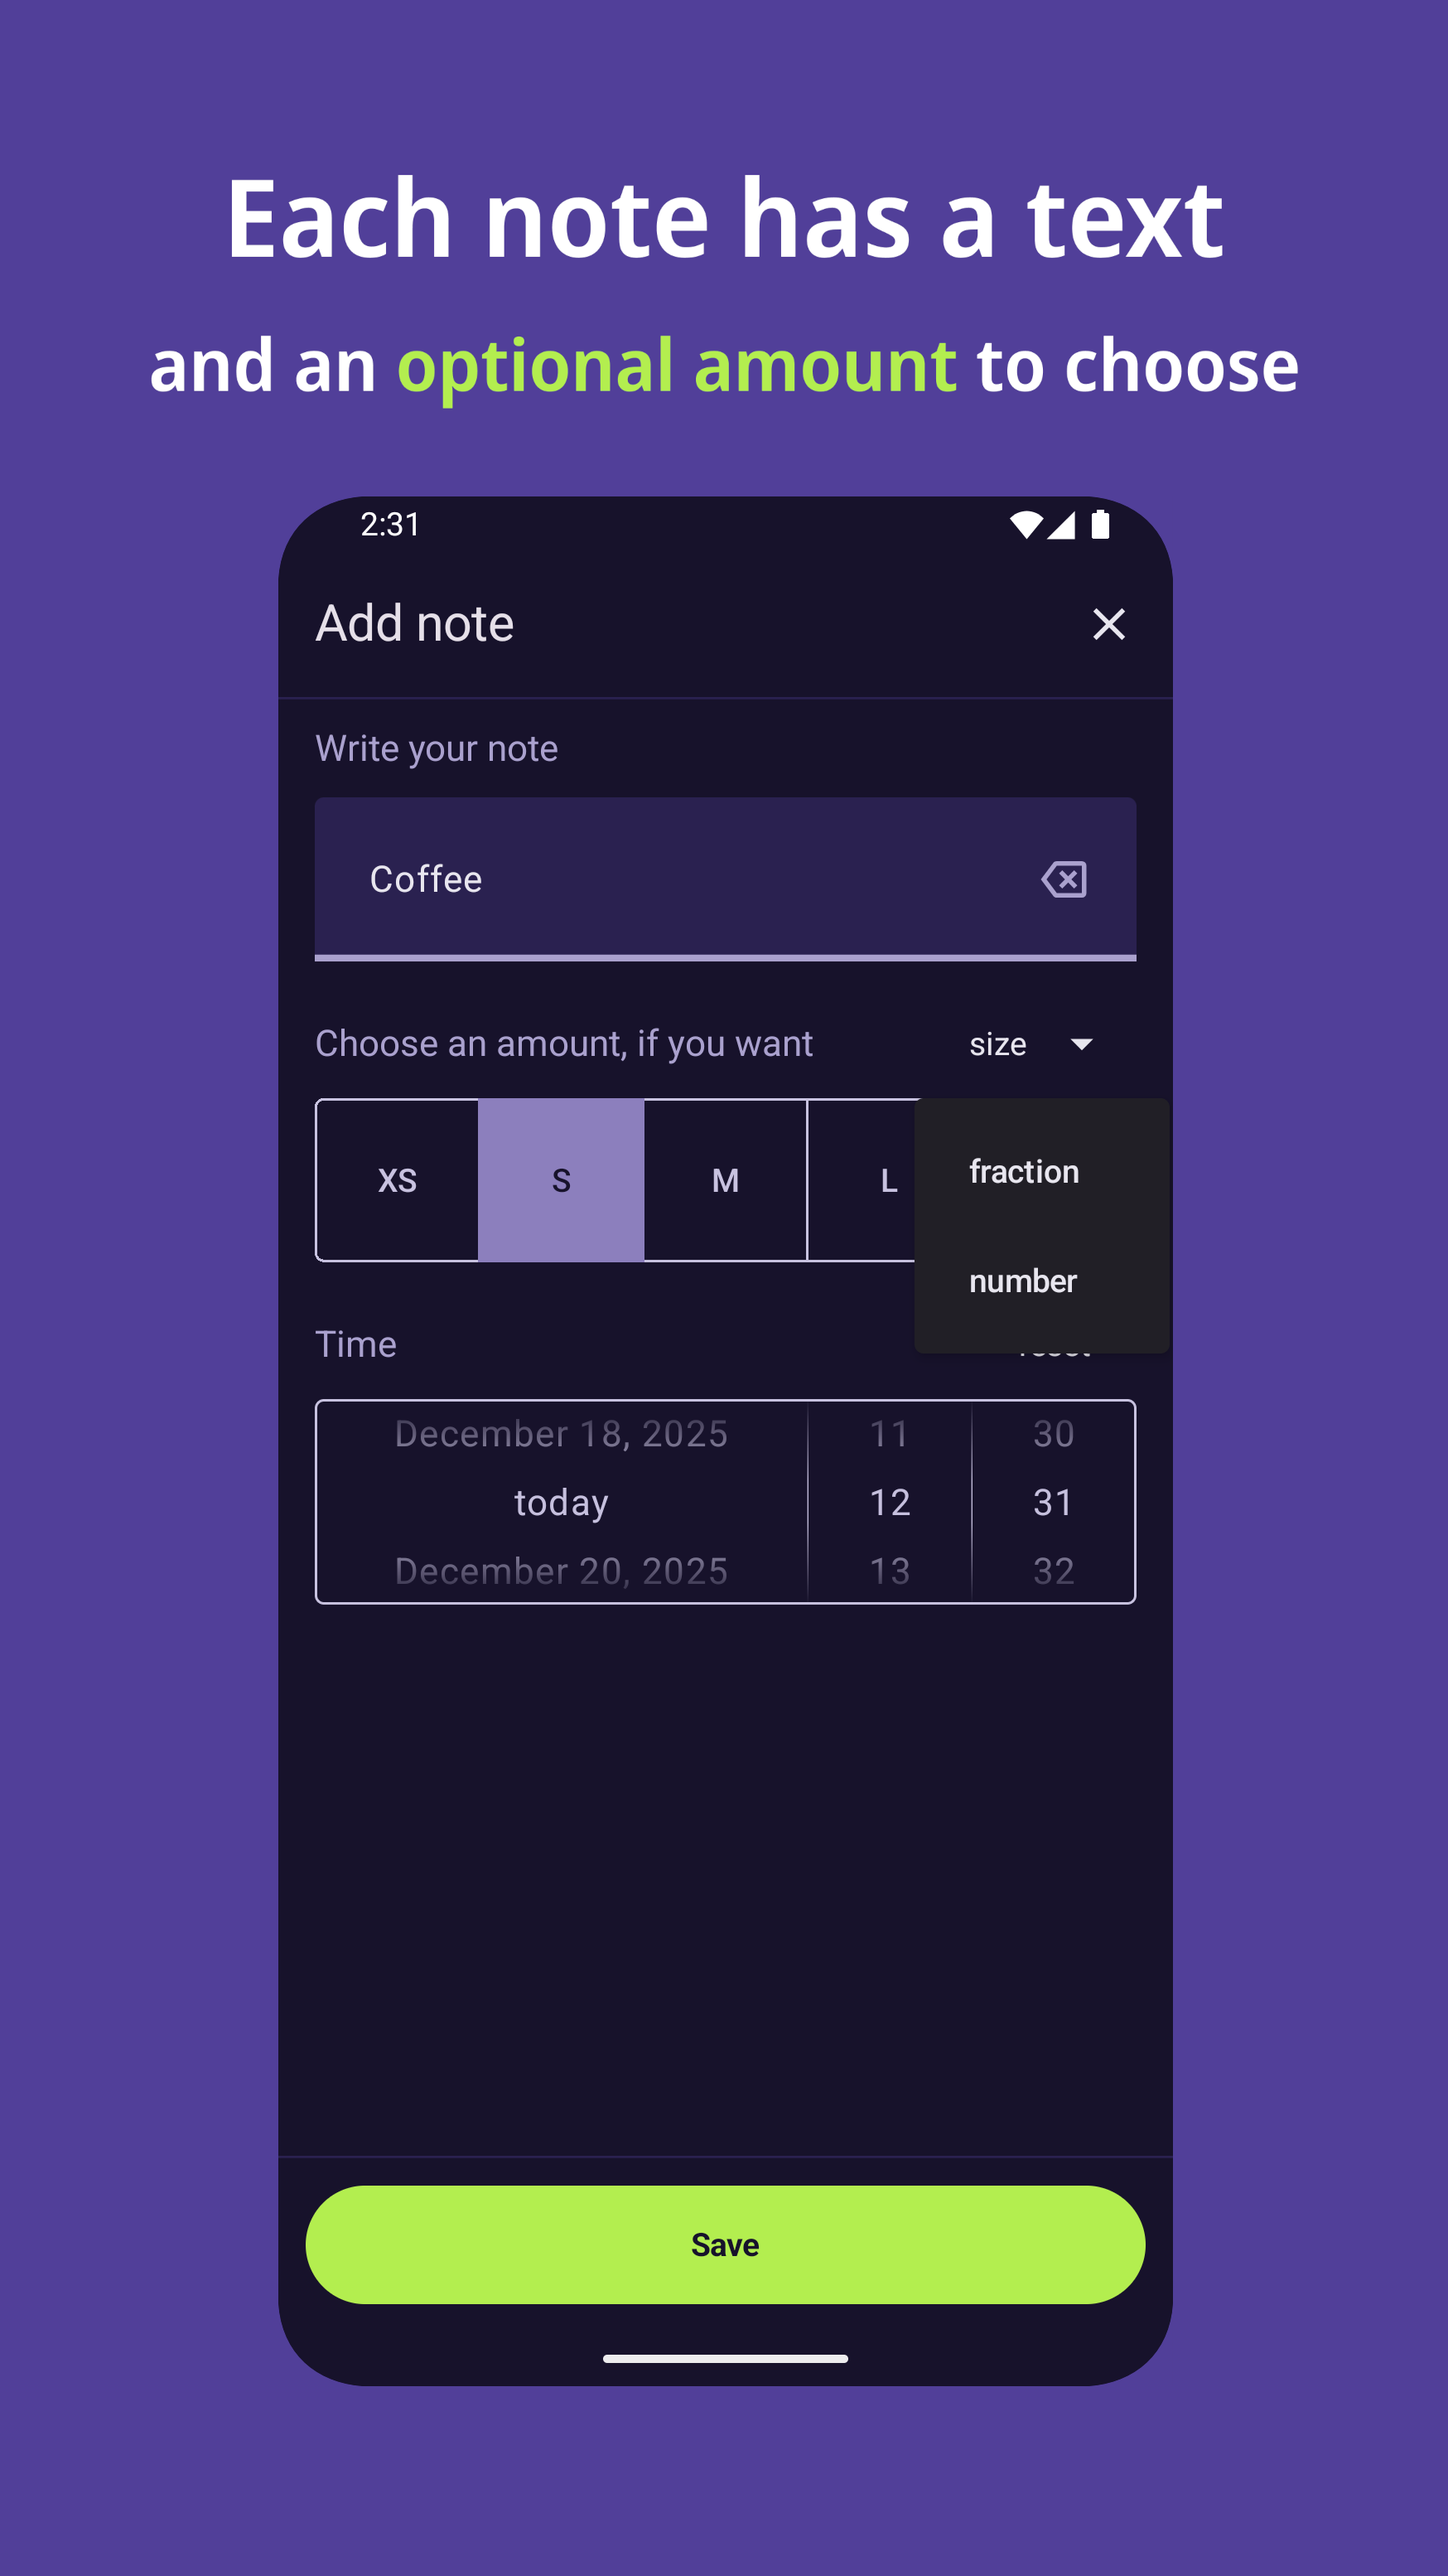
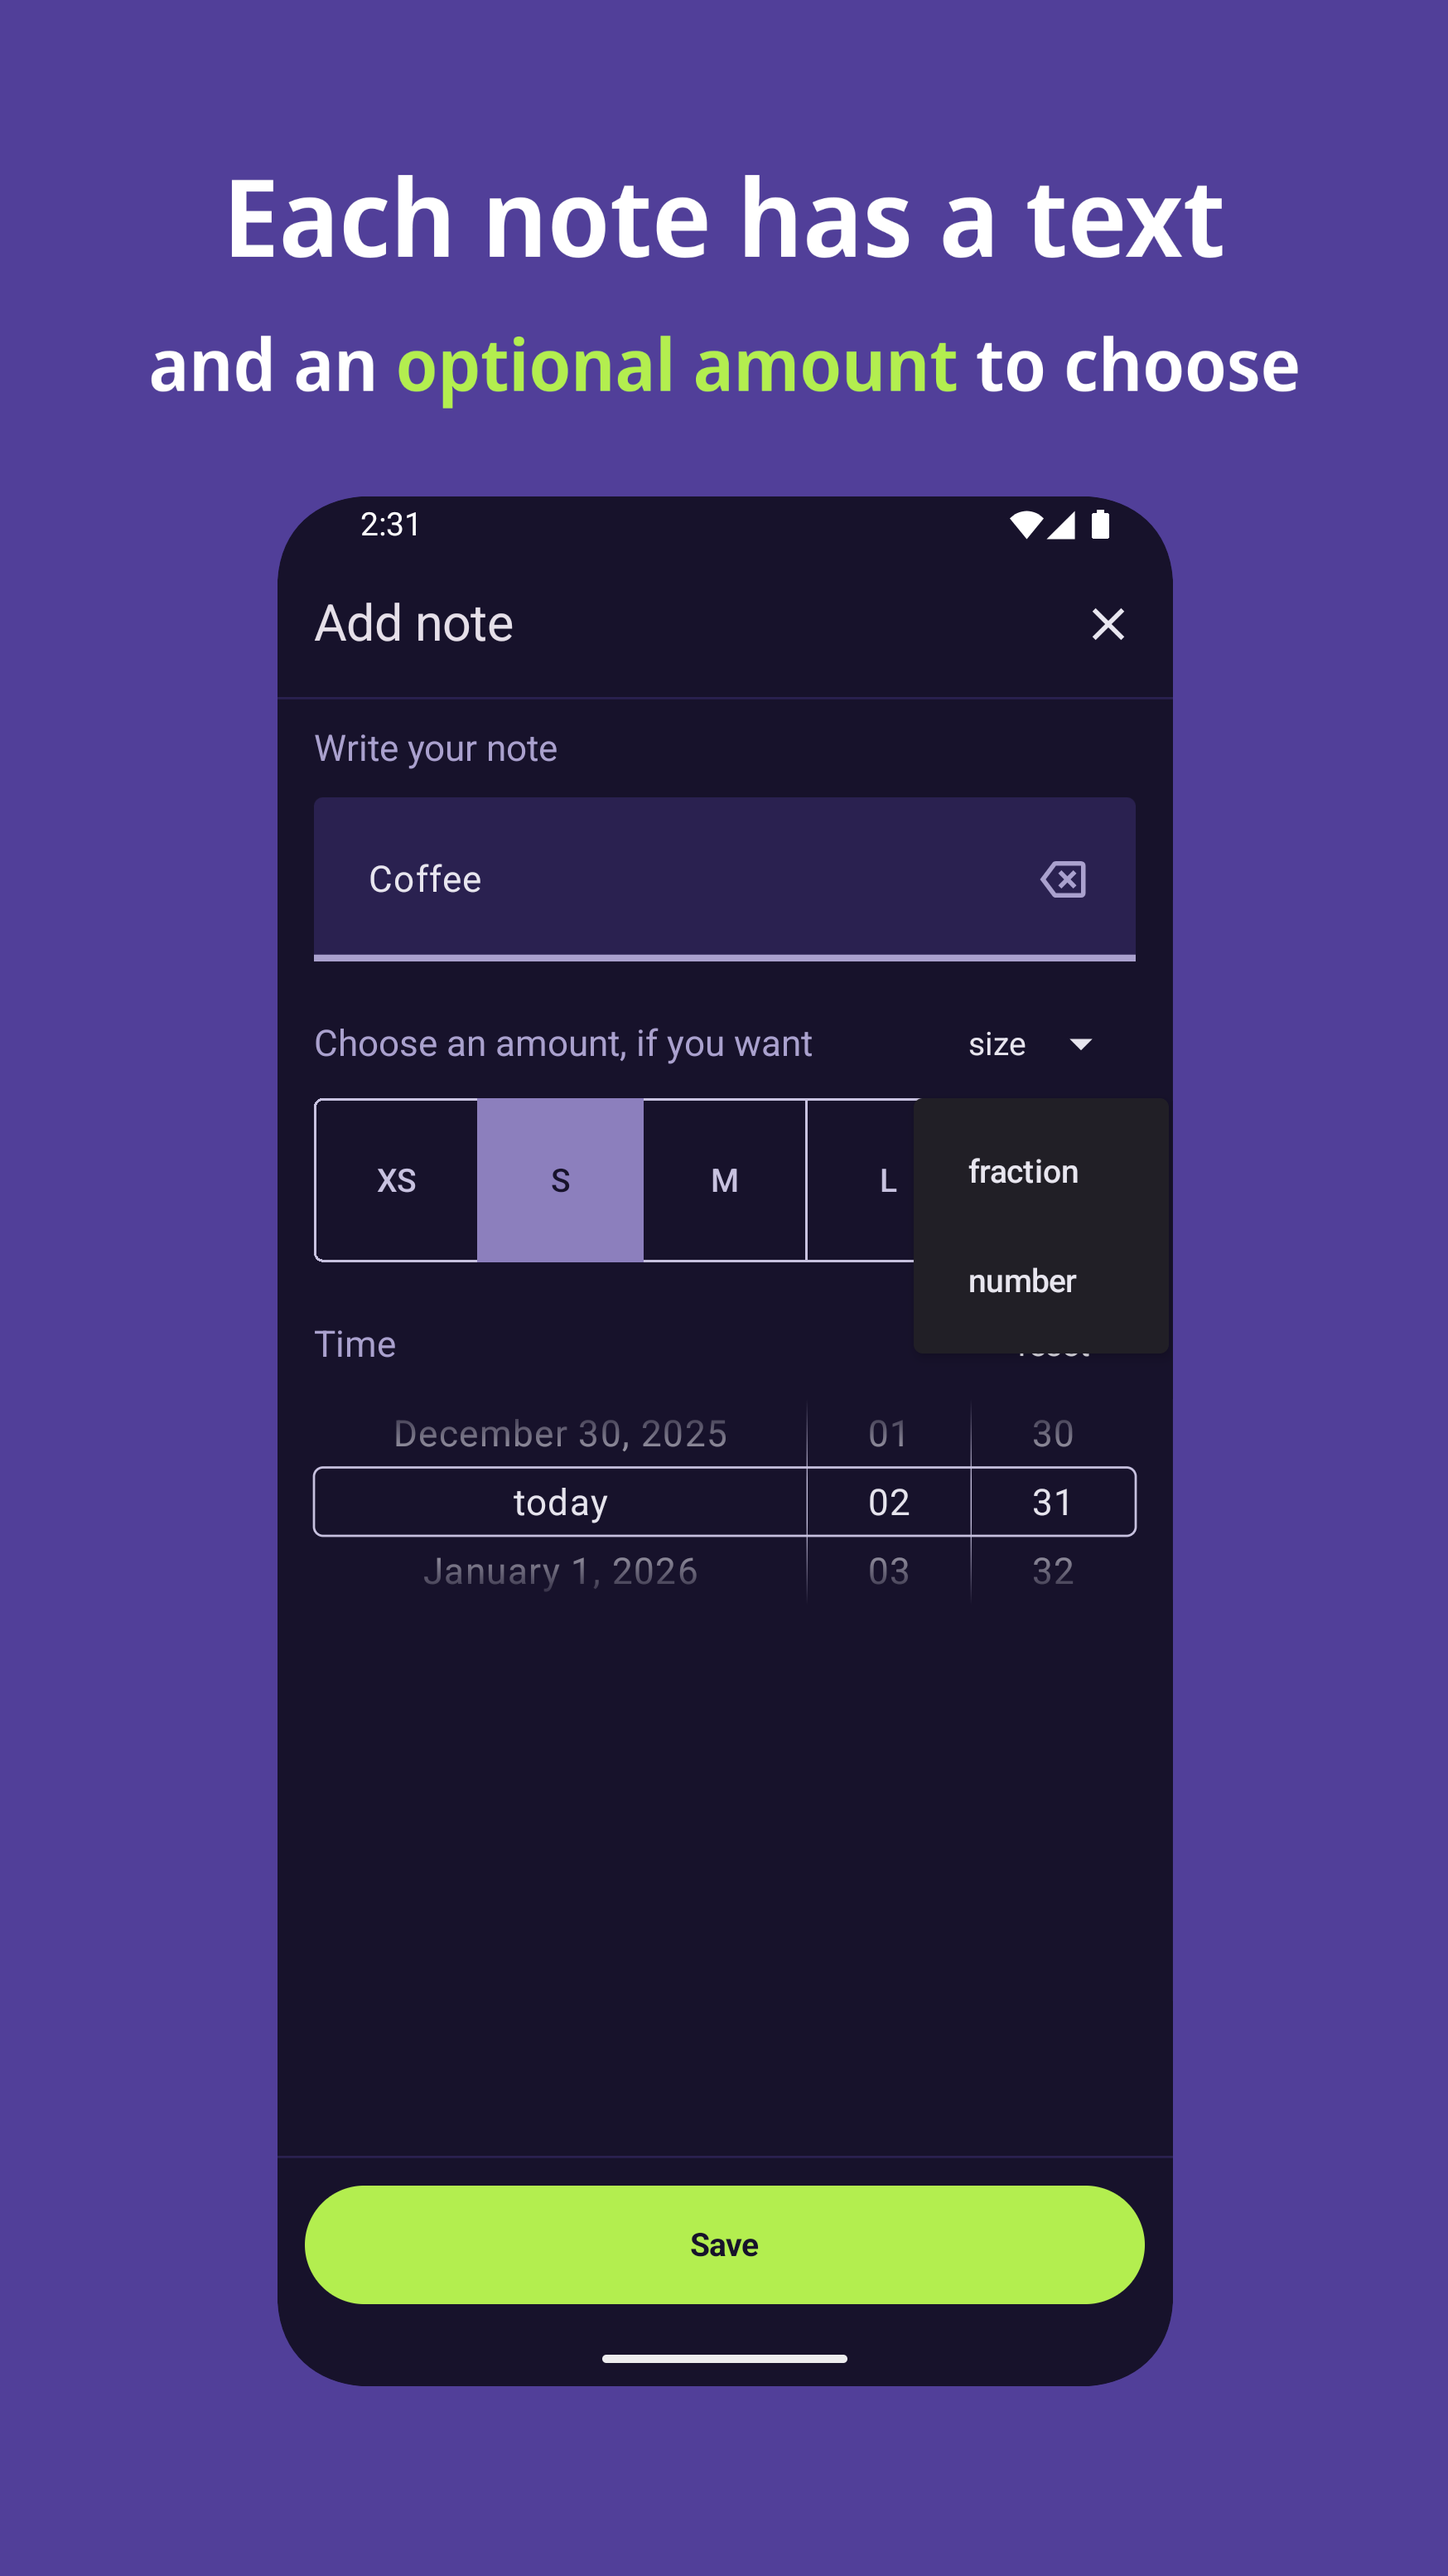
Change time picker design to letterbox (#52)

diff --git a/app/src/main/java/app/traced_it/ui/components/TracedTimePicker.kt b/app/src/main/java/app/traced_it/ui/components/TracedTimePicker.kt
@@ -1,7 +1,6 @@
 package app.traced_it.ui.components
 
 import android.text.format.DateUtils
-import androidx.compose.foundation.BorderStroke
 import androidx.compose.foundation.layout.Box
 import androidx.compose.foundation.layout.Row
 import androidx.compose.foundation.layout.fillMaxWidth
@@ -12,9 +11,21 @@ import androidx.compose.foundation.lazy.rememberLazyListState
 import androidx.compose.material3.MaterialTheme
 import androidx.compose.material3.Surface
 import androidx.compose.material3.Text
-import androidx.compose.runtime.*
+import androidx.compose.runtime.Composable
+import androidx.compose.runtime.Immutable
+import androidx.compose.runtime.LaunchedEffect
+import androidx.compose.runtime.getValue
+import androidx.compose.runtime.mutableStateOf
+import androidx.compose.runtime.remember
+import androidx.compose.runtime.setValue
+import androidx.compose.runtime.snapshotFlow
 import androidx.compose.ui.Alignment
 import androidx.compose.ui.Modifier
+import androidx.compose.ui.draw.drawWithContent
+import androidx.compose.ui.geometry.CornerRadius
+import androidx.compose.ui.geometry.Offset
+import androidx.compose.ui.geometry.Size
+import androidx.compose.ui.graphics.drawscope.Stroke
 import androidx.compose.ui.hapticfeedback.HapticFeedbackType
 import androidx.compose.ui.layout.LayoutBoundsHolder
 import androidx.compose.ui.layout.onVisibilityChanged
@@ -33,12 +44,23 @@ import androidx.paging.compose.LazyPagingItems
 import androidx.paging.compose.collectAsLazyPagingItems
 import androidx.paging.compose.itemKey
 import app.traced_it.R
-import app.traced_it.lib.*
+import app.traced_it.lib.Day
+import app.traced_it.lib.day
+import app.traced_it.lib.generateDaysList
+import app.traced_it.lib.generateNumbersList
+import app.traced_it.lib.gregorianCalendar
+import app.traced_it.lib.hour
+import app.traced_it.lib.minute
 import app.traced_it.ui.theme.AppTheme
 import app.traced_it.ui.theme.Spacing
 import kotlinx.coroutines.FlowPreview
-import kotlinx.coroutines.flow.*
-import java.util.*
+import kotlinx.coroutines.flow.distinctUntilChanged
+import kotlinx.coroutines.flow.drop
+import kotlinx.coroutines.flow.filter
+import kotlinx.coroutines.flow.flowOf
+import kotlinx.coroutines.flow.map
+import java.util.Calendar
+import java.util.TimeZone
 import kotlin.math.roundToInt
 
 @Immutable
@@ -126,16 +148,23 @@ fun TracedTimePicker(
     var userScrollEnabled by remember { mutableStateOf(false) }
 
     Surface(
-        modifier = Modifier.onVisibilityChanged(
-            minFractionVisible = 0.5f,
-            viewportBounds = viewportBounds,
-        ) { visible ->
-            userScrollEnabled = visible
-        },
-        color = MaterialTheme.colorScheme.secondaryContainer,
-        shape = MaterialTheme.shapes.extraSmall,
-        contentColor = MaterialTheme.colorScheme.onSecondaryContainer,
-        border = BorderStroke(width = borderWidth, color = MaterialTheme.colorScheme.outline),
+        modifier = Modifier
+            .drawWithContent {
+                drawContent()
+                drawRoundRect(
+                    color = borderColor,
+                    topLeft = Offset(0f, (height / itemsPerHeight).toPx()),
+                    size = Size(width = size.width, height = (height / itemsPerHeight).toPx()),
+                    cornerRadius = CornerRadius(4.dp.toPx()),
+                    style = Stroke(borderWidth.toPx()),
+                )
+            }
+            .onVisibilityChanged(
+                minFractionVisible = 0.5f,
+                viewportBounds = viewportBounds,
+            ) { visible ->
+                userScrollEnabled = visible
+            },
     ) {
         Row {
             TracedTimePickerSegment(
